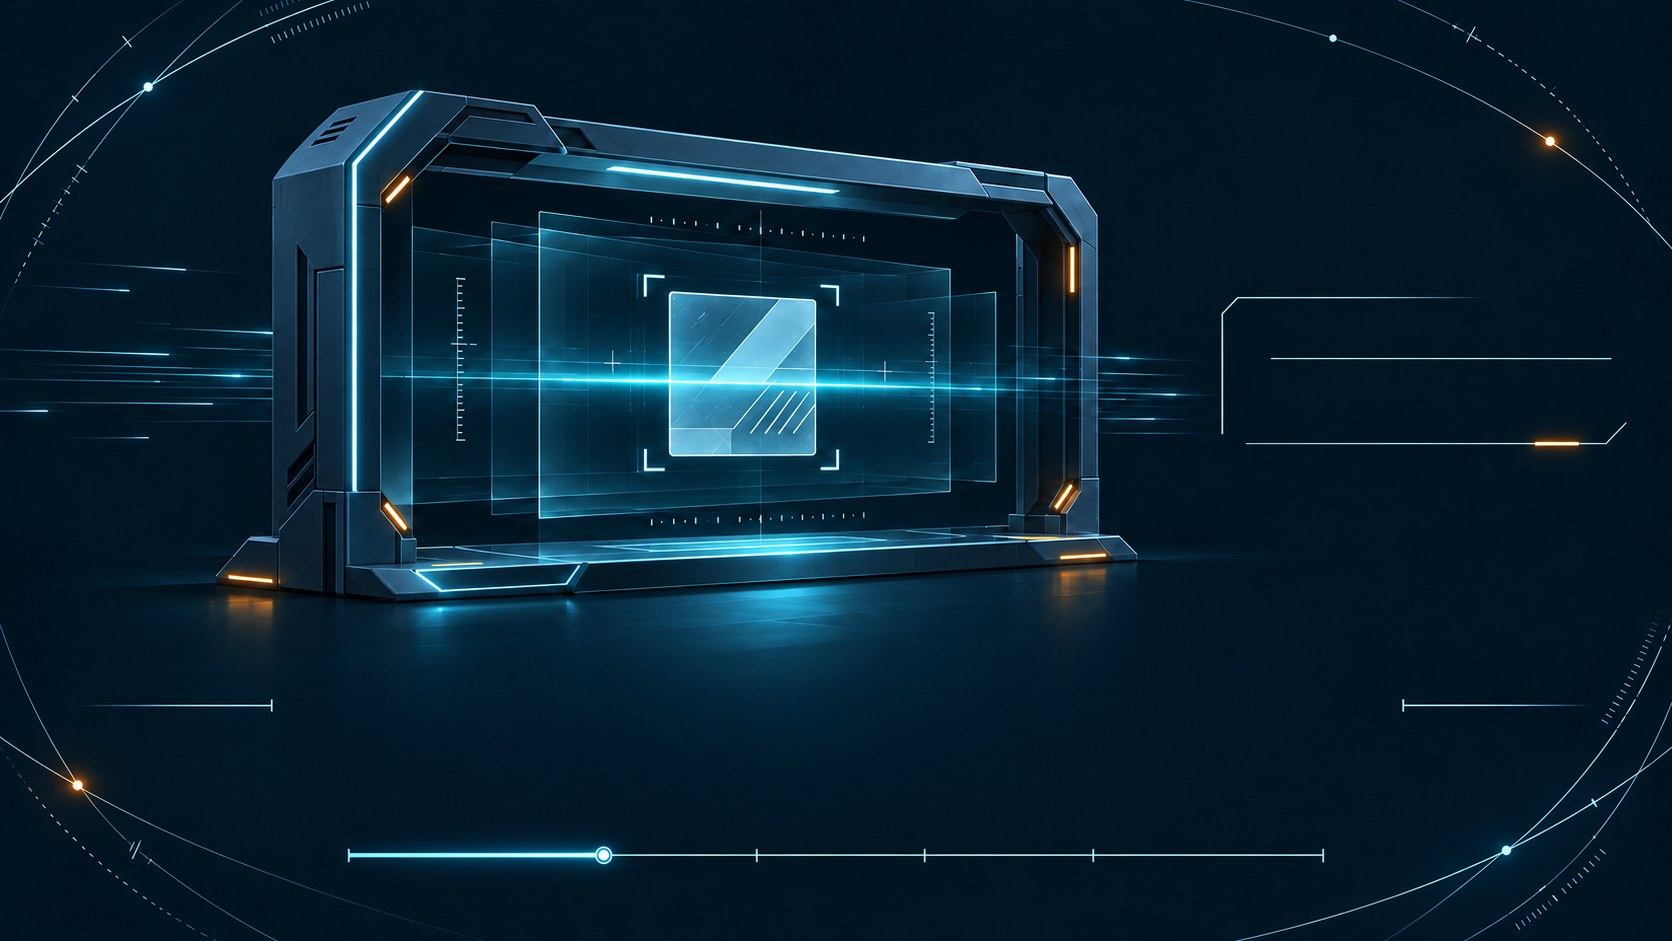
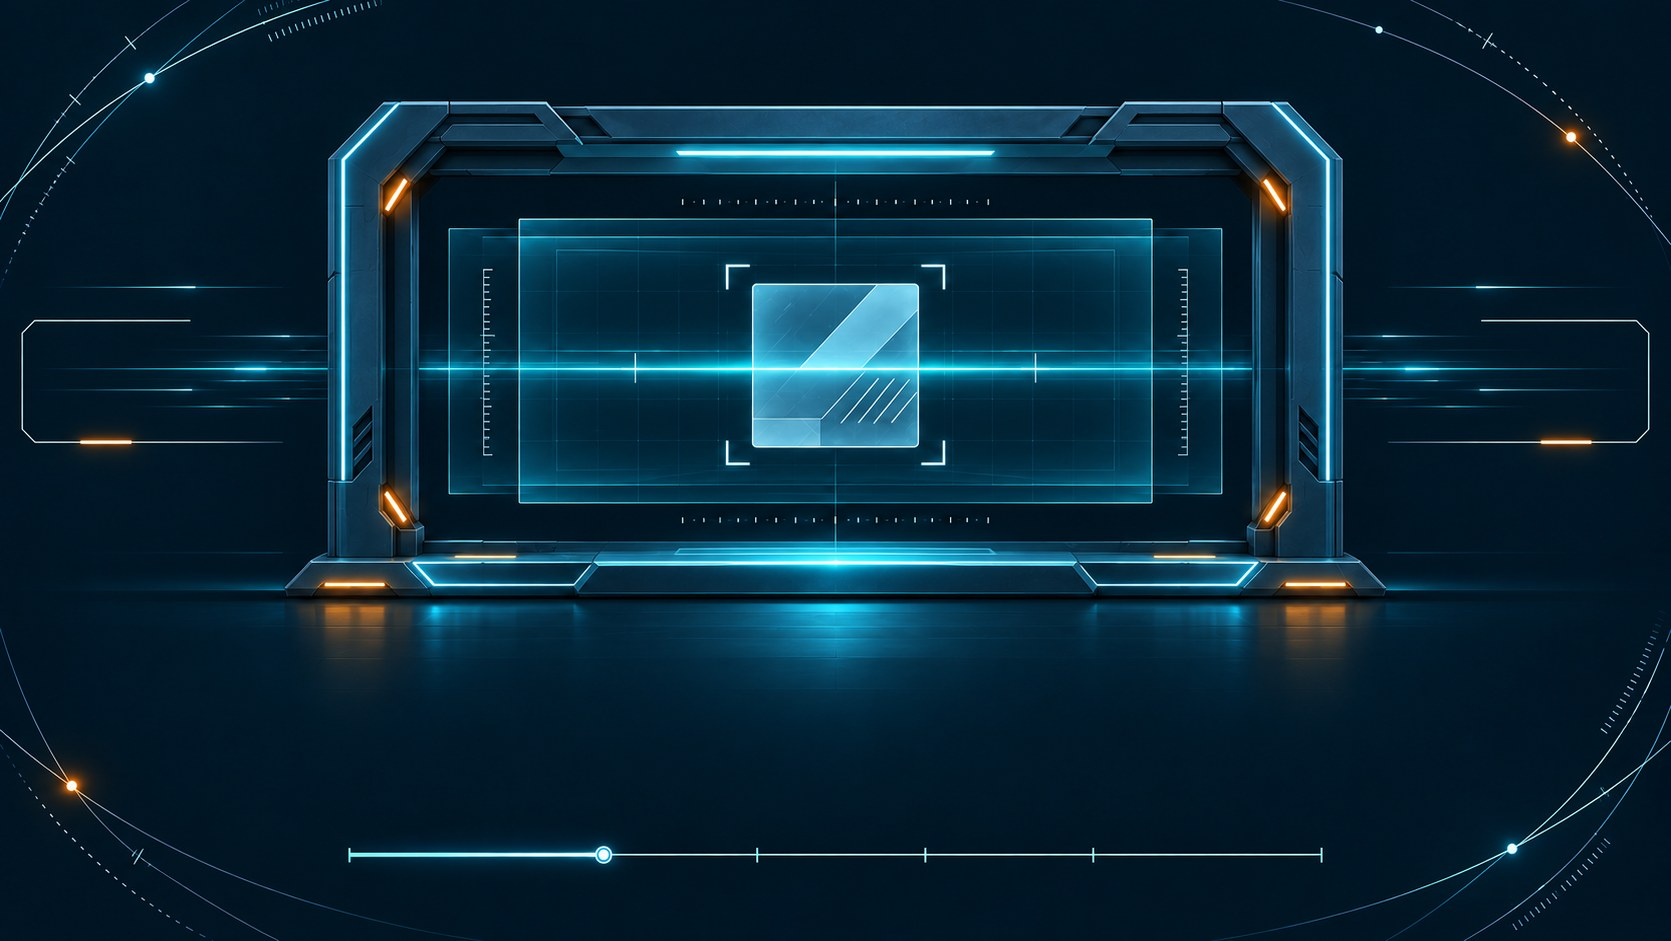
Align the scanner as a centered front-facing terminal

diff --git a/src/sequence.css b/src/sequence.css
@@ -227,10 +227,13 @@
 #dsh-deltaforce-splash[data-mode=intro] .cin-console { opacity: 1; }
 #dsh-deltaforce-splash .cin-chamber {
   position: absolute;
-  inset: 0;
+  top: 50%;
+  left: 50%;
+  width: min(100%, 177.7778vh);
+  aspect-ratio: 16 / 9;
   pointer-events: none;
-  transform-origin: 43% 39%;
-  transform: translateX(var(--drift, 0%)) scale(var(--push, 1));
+  transform-origin: center 38%;
+  transform: translate(-50%, -50%) scale(var(--push, 1));
 }
 #dsh-deltaforce-splash .cin-chamber-art {
   position: absolute;
@@ -250,7 +253,7 @@
 }
 #dsh-deltaforce-splash .cin-projector {
   position: absolute;
-  inset: 21% 40% 43% 23%;
+  inset: 23.3% 31% 46.5%;
   overflow: hidden;
   border: 1px solid #86d9ff72;
   box-shadow: 0 0 25px #49a3d331, inset 0 0 16px #619cd536;
@@ -320,8 +323,6 @@
 #dsh-deltaforce-splash .cin-console-footer { z-index: 3; }
 #dsh-deltaforce-splash .cin-console-footer { inset-block-end: 8%; }
 @media (max-width: 620px), (max-height: 380px) {
-  #dsh-deltaforce-splash .cin-chamber-art { object-position: 44% center; }
-  #dsh-deltaforce-splash .cin-projector { inset: 23% 33% 44% 17%; }
   #dsh-deltaforce-splash .cin-console-panel { inset-block-start: 68%; }
   #dsh-deltaforce-splash .cin-console-identity { inset: 57% 7% auto auto; width: auto; padding: 3px 8px; }
   #dsh-deltaforce-splash .cin-console-identity b { font-size: 10px; }

diff --git a/src/sequence.js b/src/sequence.js
@@ -100,7 +100,6 @@ function prepareSequence(frame, reduced) {
       const progress = Math.min(1, t / introDuration);
       if (!reduced) {
         chamber.style.setProperty('--push', 1 + .044 * progress);
-        chamber.style.setProperty('--drift', `${-1.2 * progress}%`);
         projector.style.setProperty('--scan', `${50 - 50 * Math.cos(t * Math.PI / 1750)}%`);
       }
 

diff --git a/README.md b/README.md
@@ -1,10 +1,10 @@
 # DSH Cinematic Boot
 
-独立的 DeepSeek Harness 启动动画插件。太空开场接入六步身份验证，较慢的英文女声与字幕同步，前导使用英文界面、完整的凭证扫描舱、轨道链路和立体核心，六步共享同一座扫描舱和连续镜头，舱内投影在 940 毫秒内交接，随后播放本地 CG，最后以「天空属于哈夫克」行星夜面淡入 DSH。身份资料页显示 `GUEST NODE`。已按 Windows DSH `0.2.2-rc.3` / Cordis `4.1.0` 的本机安装包进行适配。
+独立的 DeepSeek Harness 启动动画插件。太空开场接入六步身份验证，较慢的英文女声与字幕同步，前导使用英文界面、完整的凭证扫描舱、轨道链路和立体核心，六步共享同一座居中正视的扫描舱和连续镜头，舱内投影在 940 毫秒内交接，随后播放本地 CG，最后以「天空属于哈夫克」行星夜面淡入 DSH。身份资料页显示 `GUEST NODE`。已按 Windows DSH `0.2.2-rc.3` / Cordis `4.1.0` 的本机安装包进行适配。
 
 ## 安装和使用
 
-安装包是 DSH 可接收的 npm 本地压缩包 `dsh-deltaforce-0.2.6.tgz`。项目使用 Node.js 22.19 或更高版本构建。
+安装包是 DSH 可接收的 npm 本地压缩包 `dsh-deltaforce-0.2.7.tgz`。项目使用 Node.js 22.19 或更高版本构建。
 
 1. 完全退出 DSH（包含托盘进程）。
 2. 在包含安装包的目录执行以下 PowerShell 命令。已将 `dsh` 加入 PATH 时，可直接使用 `dsh`。
@@ -12,7 +12,7 @@
 
 ```powershell
 $cli = Join-Path $env:LOCALAPPDATA 'Programs\DeepSeek Harness\resources\runtime\cli\bin\dsh.cmd'
-& $cli plugin --profile desktop add (Resolve-Path '.\dsh-deltaforce-0.2.6.tgz').Path --ignore-scripts --prefer-offline
+& $cli plugin --profile desktop add (Resolve-Path '.\dsh-deltaforce-0.2.7.tgz').Path --ignore-scripts --prefer-offline
 ```
 
 本地安装包本身已经在磁盘上。桌面 profile 的其他依赖若缺少 pnpm 缓存，安装时仍可能需要联网补齐。
@@ -49,7 +49,7 @@ New-Item -ItemType Directory -Force -Path $testRoot | Out-Null
 $env:DSH_HOME = $testRoot
 $cli = Join-Path $env:LOCALAPPDATA 'Programs\DeepSeek Harness\resources\runtime\cli\bin\dsh.cmd'
 & $cli --profile cinematic-test --from-default-profile web --dump-config | Out-Null
-& $cli plugin --profile cinematic-test add (Resolve-Path '.\dist\dsh-deltaforce-0.2.6.tgz').Path --ignore-scripts --offline
+& $cli plugin --profile cinematic-test add (Resolve-Path '.\dist\dsh-deltaforce-0.2.7.tgz').Path --ignore-scripts --offline
 & $cli --profile cinematic-test --dump-config | Select-String '^\s*name: dsh-deltaforce$'
 & $cli --profile cinematic-test --host 127.0.0.1 --port 0 --no-open
 ```
